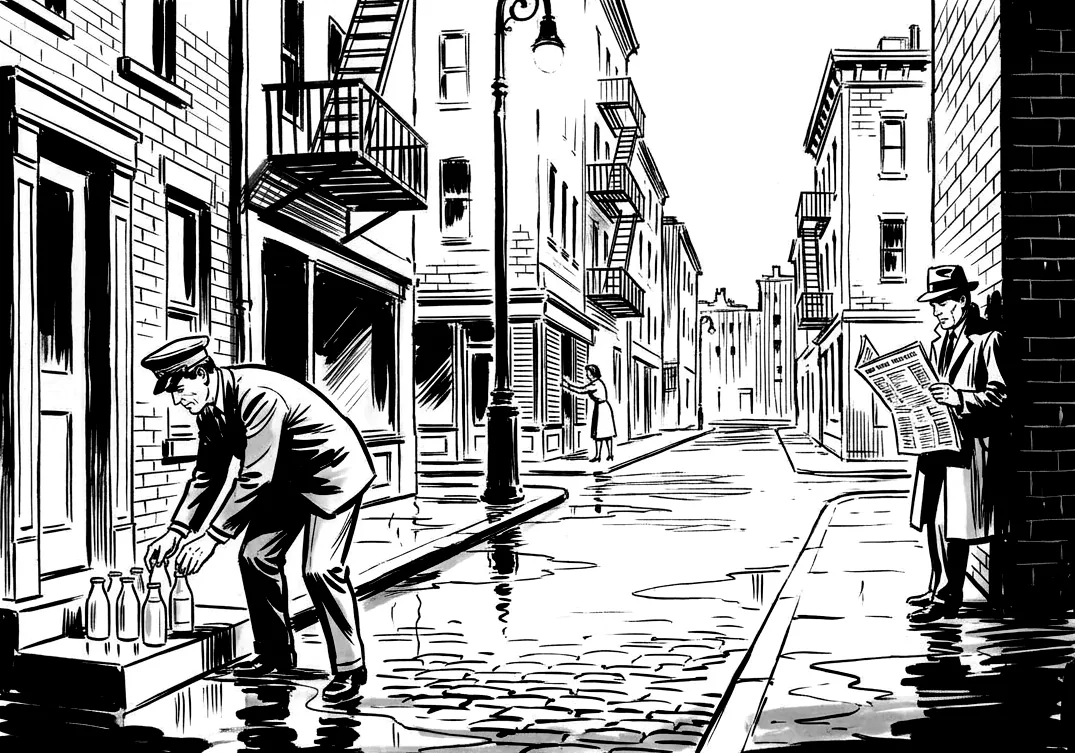
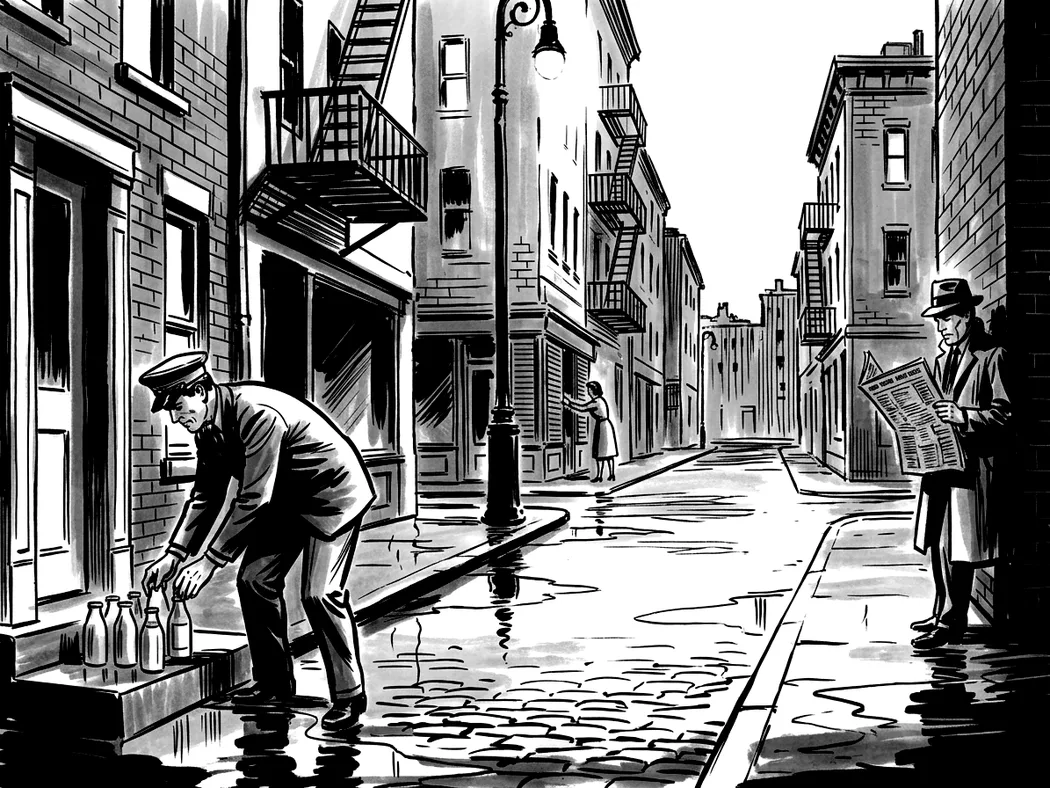
Rita om morgonbilden där ingen blev mördad i polisbildens stil
Två referenser: den gamla bilden för motivet och morgon-mord-polis-man för
stilen, eftersom den gamla inte hade samma stil som de andra (Jonas
2026-11-15).

Claude-Session: https://claude.ai/code/session_01X82C4AptUEE9LHKngPSzUq

diff --git a/docs/bildsmak.md b/docs/bildsmak.md
@@ -350,6 +350,10 @@ en regel.
   bar och färre detaljer: "Mycket bra". `roll-bartender-kvinna` med två
   referenser: "Det ser bra ut". De nya bilderna är nu stilreferens för
   porträtten.
+  `morgon-ingen` ritad om med bara den gamla bilden som referens blev först
+  för grå och sedan "inte alls bra". Den gamla har inte samma stil som de
+  andra, så den gjordes med `morgon-mord-polis-man` som stilreferens: "den
+  är bra!".
 
 ## Bilder att byta
 
